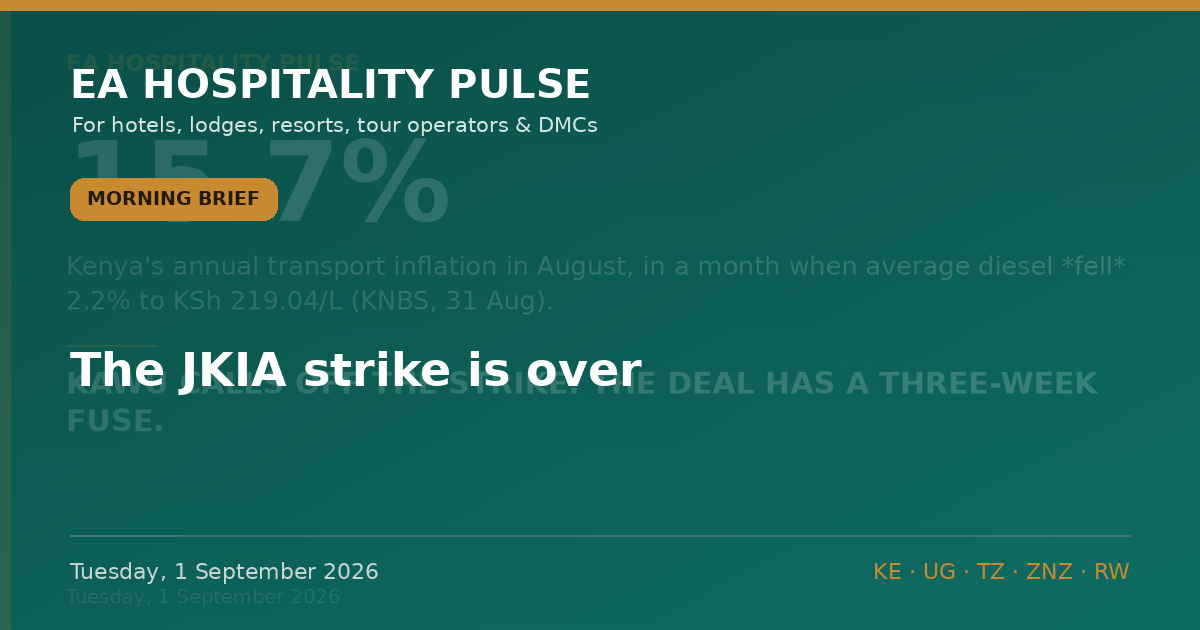
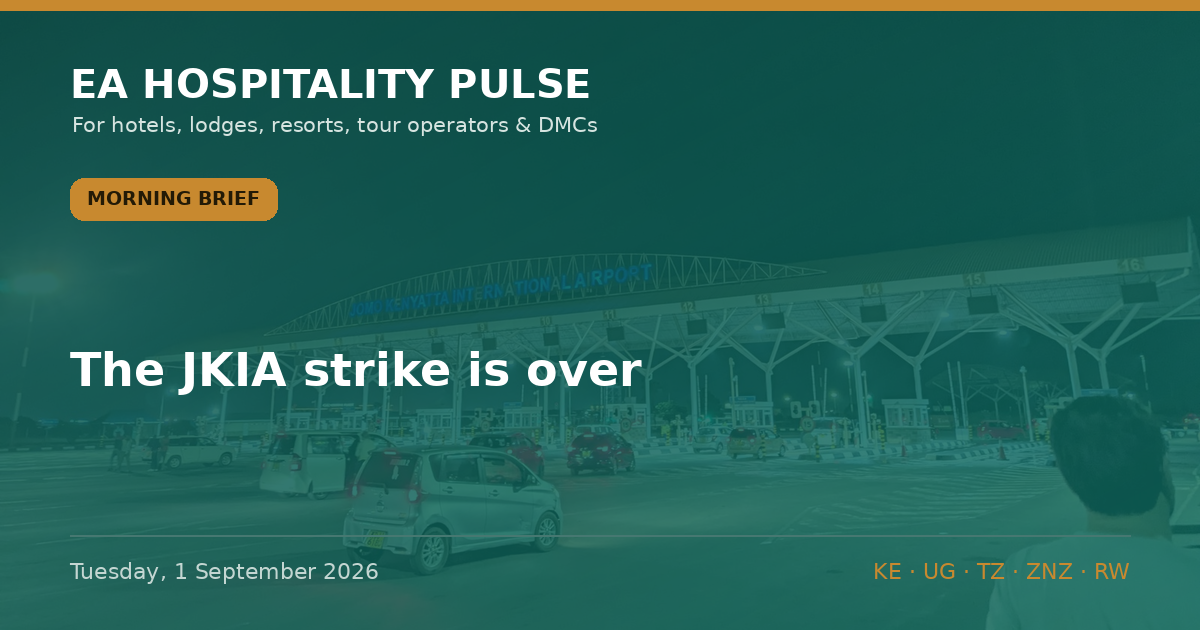
Auto-build: 2026-09-07 11:49 UTC

diff --git a/editions/pulse-2026-09-01-morning.html b/editions/pulse-2026-09-01-morning.html
@@ -194,8 +194,8 @@ footer.s a:hover{color:var(--teal-d);border-bottom-color:var(--gold)}
 <header class="s"><div class="wrap"><a href="/"><span class="logo" aria-hidden="true">EA</span><b>EA Hospitality Pulse</b></a></div></header>
 <main class="wrap" id="content">
   <article class="art">
-    <img class="hero graphic" src="../og/pulse-2026-09-01-morning-clean.png" width="1200" height="630" alt="Morning Brief — Tuesday, 1 September 2026" loading="eager" fetchpriority="high" decoding="async">
-    <p class="hcredit">Graphic: EA Hospitality Pulse · EA Hospitality Pulse · Own work</p>
+    <img class="hero" src="../og/pulse-2026-09-01-morning-clean.png" width="1200" height="630" alt="Morning Brief — Tuesday, 1 September 2026" loading="eager" fetchpriority="high" decoding="async">
+    <p class="hcredit">Photo: Sdkb · <a href="https://commons.wikimedia.org/w/index.php?curid=173314036" target="_blank" rel="noopener nofollow">Openverse · wikimedia</a> · <a href="https://creativecommons.org/licenses/by-sa/4.0/" target="_blank" rel="noopener nofollow">CC BY-SA 4.0</a></p>
     <nav class="crumbs" aria-label="Breadcrumb"><a href="../index.html">Home</a><span aria-hidden="true">/</span><a href="../index.html#archive">Editions</a><span aria-hidden="true">/</span><span aria-current="page">Morning Brief, Tuesday, 1 September 2026</span></nav>
     <div class="kicker"><span class="badge">Morning Brief</span><time datetime="2026-09-01">Tuesday, 1 September 2026</time></div>
     <h1>The JKIA strike is over.</h1>

diff --git a/index.html b/index.html
@@ -460,7 +460,7 @@
   .imp-demand{color:var(--sage)} .imp-margin{color:var(--coral)} .imp-risk{color:#ff5b5b} .imp-watch{color:var(--amber)}
   @media(max-width:520px){.imp{position:static;display:inline-flex;margin:0 0 9px}.insight h3,.insight .imeta{padding-right:0}}
 </style>
-<!--BUILD_STAMP:20260907-1139--></head>
+<!--BUILD_STAMP:20260907-1148--></head>
 <body>
 <header class="site">
   <div class="wrap topbar">

diff --git a/data.js b/data.js
@@ -3855,4 +3855,4 @@ window.INSIGHTS = [
   "editionKey": "evening"
  }
 ];
-window.BUILT_AT = "2026-09-07 11:39";
+window.BUILT_AT = "2026-09-07 11:48";

diff --git a/ledger.js b/ledger.js
@@ -1,5 +1,5 @@
 window.LEDGER = {
- "updated": "2026-09-07 11:39",
+ "updated": "2026-09-07 11:49",
  "stats": {
   "total": 160,
   "open": 130,
